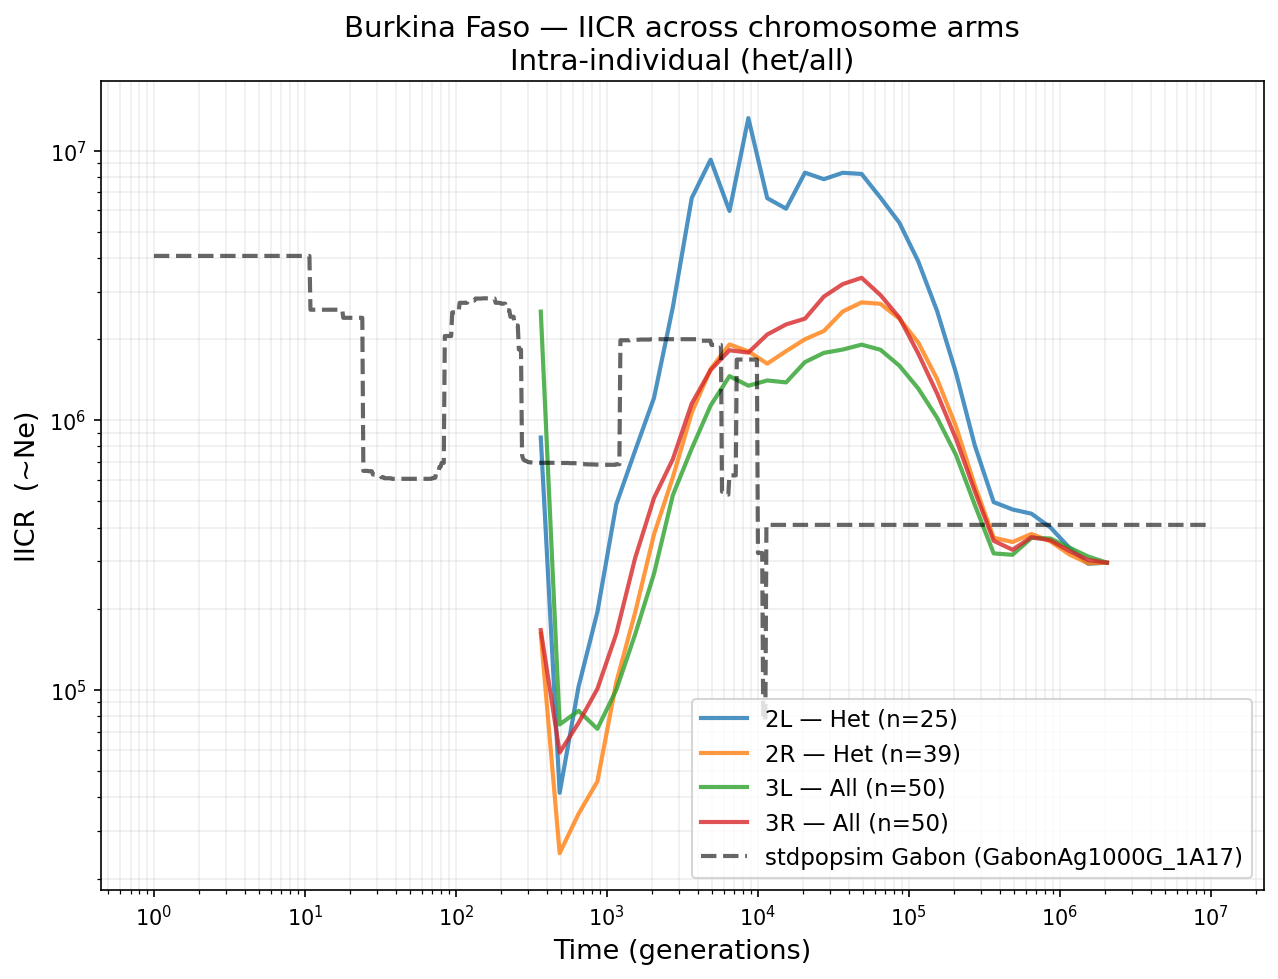
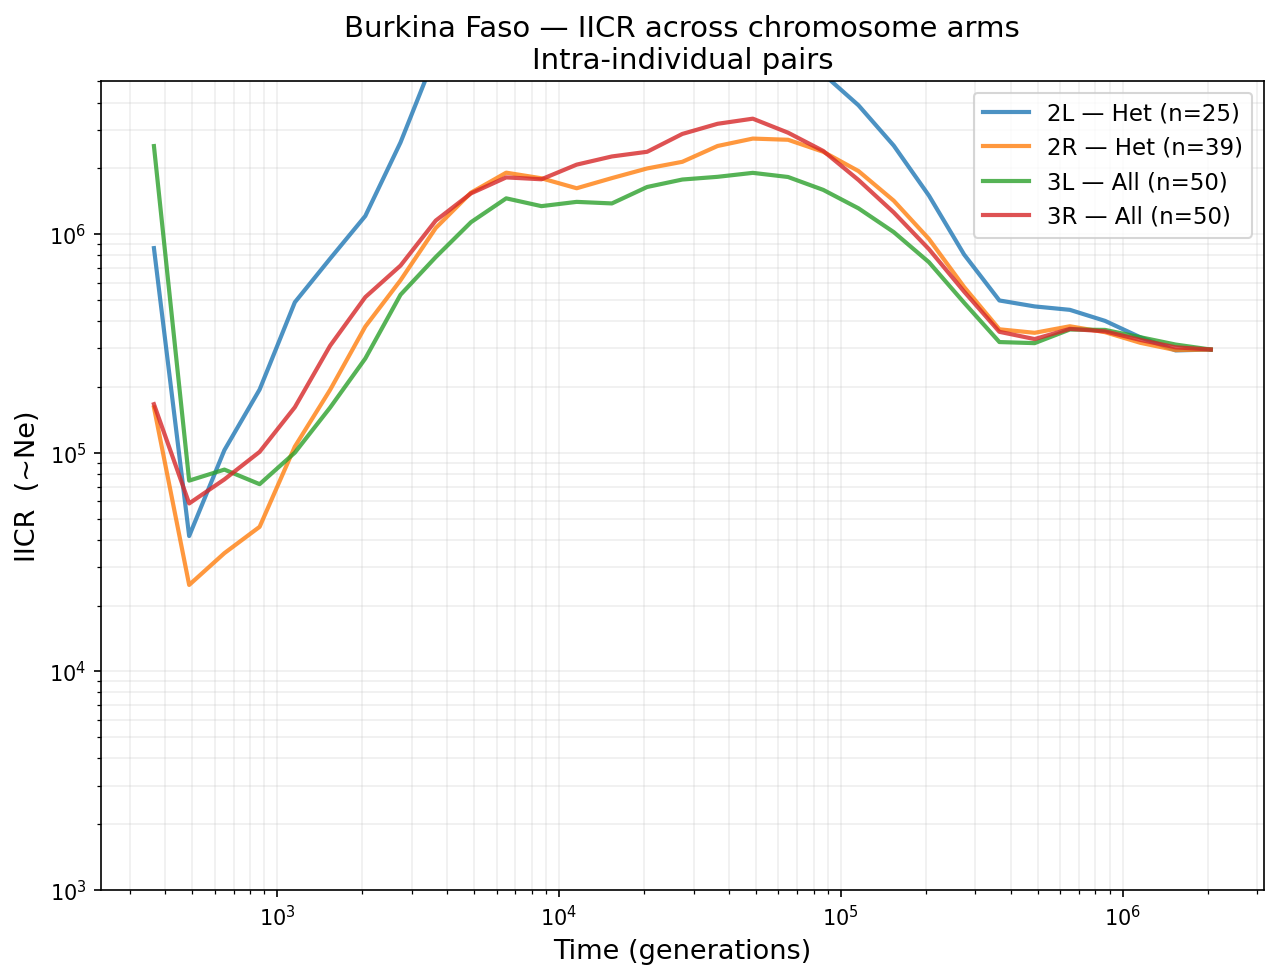
Clean up demography plots, add SMC++ pipeline, update docs
- Remove stdpopsim reference overlay from IICR plots (misleading for real data)
- Set IICR y-axis to 10^3-5*10^6 for cleaner visualization
- Add SMC++ run script with accessibility mask for Burkina Faso 3L
- Fix translate.py: pre-slice per block to avoid pickle bottleneck
- Update gallery figures with cleaned demography plots
- Add under-development disclaimer

diff --git a/experiment_burkina_faso/figures/generate_all_figures.py b/experiment_burkina_faso/figures/generate_all_figures.py
@@ -1169,6 +1169,45 @@ def _plot_anogam_ref(ax):
                 label="stdpopsim Gabon (GabonAg1000G_1A17)")
 
 
+# SMC++ pre-computed references (from cxt paper, 2L, 200bp resolution)
+SMCPP_DIR = RESULTS_DIR / "smcpp_reference"
+SMCPP_POP_MAP = {
+    "Burkina_Faso": "burkina_faso",
+    "Cameroon": "cameroon",
+    "Ghana": "ghana",
+    "Mali": "mali",
+    "Uganda": "uganda",
+}
+
+def _plot_smcpp_ref(ax, pop, time_windows):
+    """Overlay SMC++ IICR for a population (if available)."""
+    smcpp_key = SMCPP_POP_MAP.get(pop)
+    if smcpp_key is None:
+        return
+    path = SMCPP_DIR / f"smcpp_{smcpp_key}.npz"
+    if not path.exists():
+        return
+    data = np.load(path)
+    yhats = data["yhats"]  # (n_reps, n_windows) in log-space
+
+    # Average across replicates, convert to generations
+    mean_log = np.mean(yhats, axis=0)
+    tmrcas_gen = np.exp(mean_log[mean_log > 0])  # filter out invalid
+
+    if len(tmrcas_gen) == 0:
+        return
+
+    rates = coalescence_rates(tmrcas_gen, time_windows)
+    with np.errstate(divide="ignore", invalid="ignore"):
+        iicr = np.where(rates > 0, 1.0 / (2.0 * rates), np.nan)
+
+    time_mids = np.sqrt(time_windows[:-1] * time_windows[1:])
+    time_mids[0] = time_windows[1] / 2
+
+    ax.plot(time_mids, iicr, ":", color="#9C27B0", lw=2.5, alpha=0.7,
+            label="SMC++ (cxt paper, 2L)")
+
+
 DEMOG_MIN_ACC = 0.5  # minimum accessibility fraction to include a block
 
 def _get_masked_tmrcas(data, arm):
@@ -1257,14 +1296,15 @@ def fig8_demography():
             else:
                 ax.set_xscale("log")
                 ax.set_yscale("log")
+                ax.set_ylim(1e3, 5e6)
                 ax.set_xlabel("Time (generations)", fontsize=13)
                 ax.set_ylabel("IICR  (~Ne)", fontsize=13)
                 ax.grid(True, which="both", alpha=0.2)
-                _plot_anogam_ref(ax)
+
                 ax.legend(fontsize=9, ncol=2, loc="upper left")
 
             ax.set_title(f"Demographic inference — {arm} {pretty_group(group)} intra\n"
-                         f"vs stdpopsim A. gambiae (Gabon)",
+                         f"Intra-individual pairs",
                          fontsize=14)
 
             fname = f"demography_{arm}_{group}_allpops"
@@ -1300,14 +1340,14 @@ def fig8_demography():
         else:
             ax.set_xscale("log")
             ax.set_yscale("log")
+            ax.set_ylim(1e3, 5e6)
             ax.set_xlabel("Time (generations)", fontsize=13)
             ax.set_ylabel("IICR  (~Ne)", fontsize=13)
             ax.grid(True, which="both", alpha=0.2)
-            _plot_anogam_ref(ax)
             ax.legend(fontsize=11)
 
         ax.set_title(f"{pop.replace('_', ' ')} — 2L IICR by karyotype\n"
-                     f"vs stdpopsim A. gambiae (Gabon)", fontsize=14)
+                     f"Intra-individual pairs", fontsize=14)
 
         plt.savefig(FIG_DIR / "demography" / f"demography_2L_{pop}.png",
                     dpi=150, bbox_inches="tight")
@@ -1343,14 +1383,14 @@ def fig8_demography():
         else:
             ax.set_xscale("log")
             ax.set_yscale("log")
+            ax.set_ylim(1e3, 5e6)
             ax.set_xlabel("Time (generations)", fontsize=13)
             ax.set_ylabel("IICR  (~Ne)", fontsize=13)
             ax.grid(True, which="both", alpha=0.2)
-            _plot_anogam_ref(ax)
             ax.legend(fontsize=11)
 
         ax.set_title(f"{pop.replace('_', ' ')} — IICR across chromosome arms\n"
-                     f"Intra-individual (het/all)", fontsize=14)
+                     f"Intra-individual pairs", fontsize=14)
 
         plt.savefig(FIG_DIR / "demography" / f"demography_allarms_{pop}.png",
                     dpi=150, bbox_inches="tight")